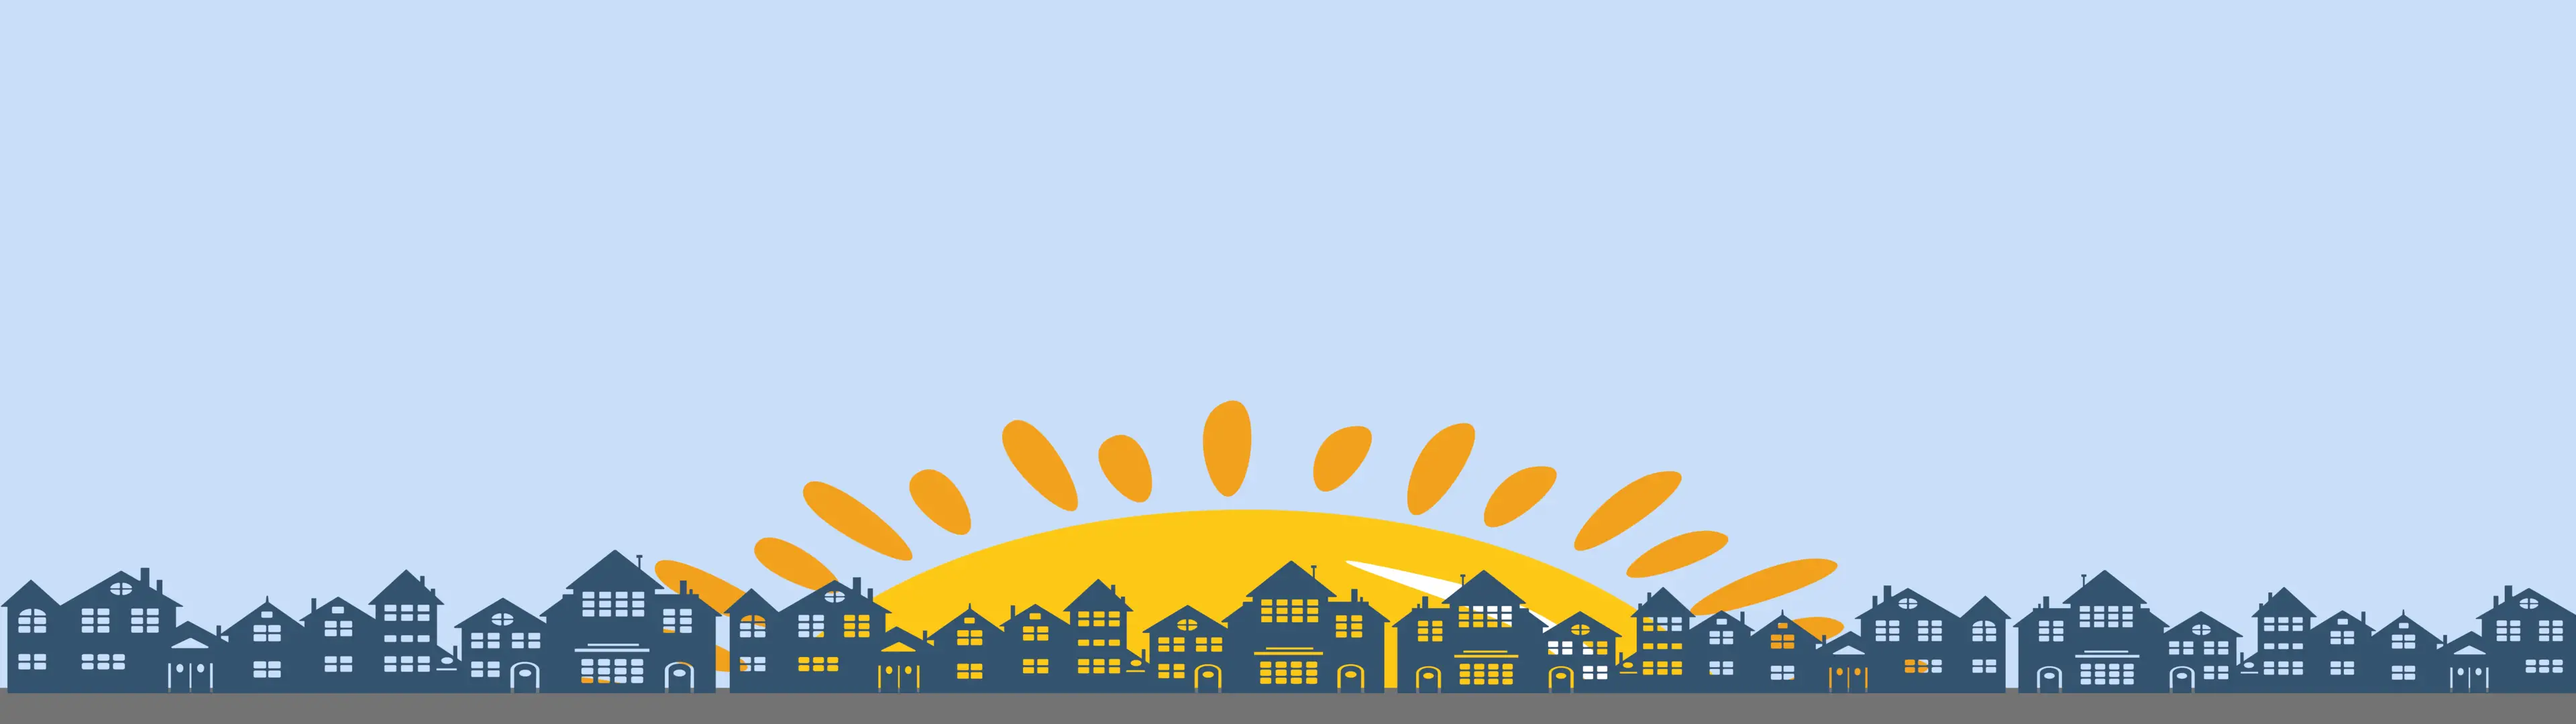
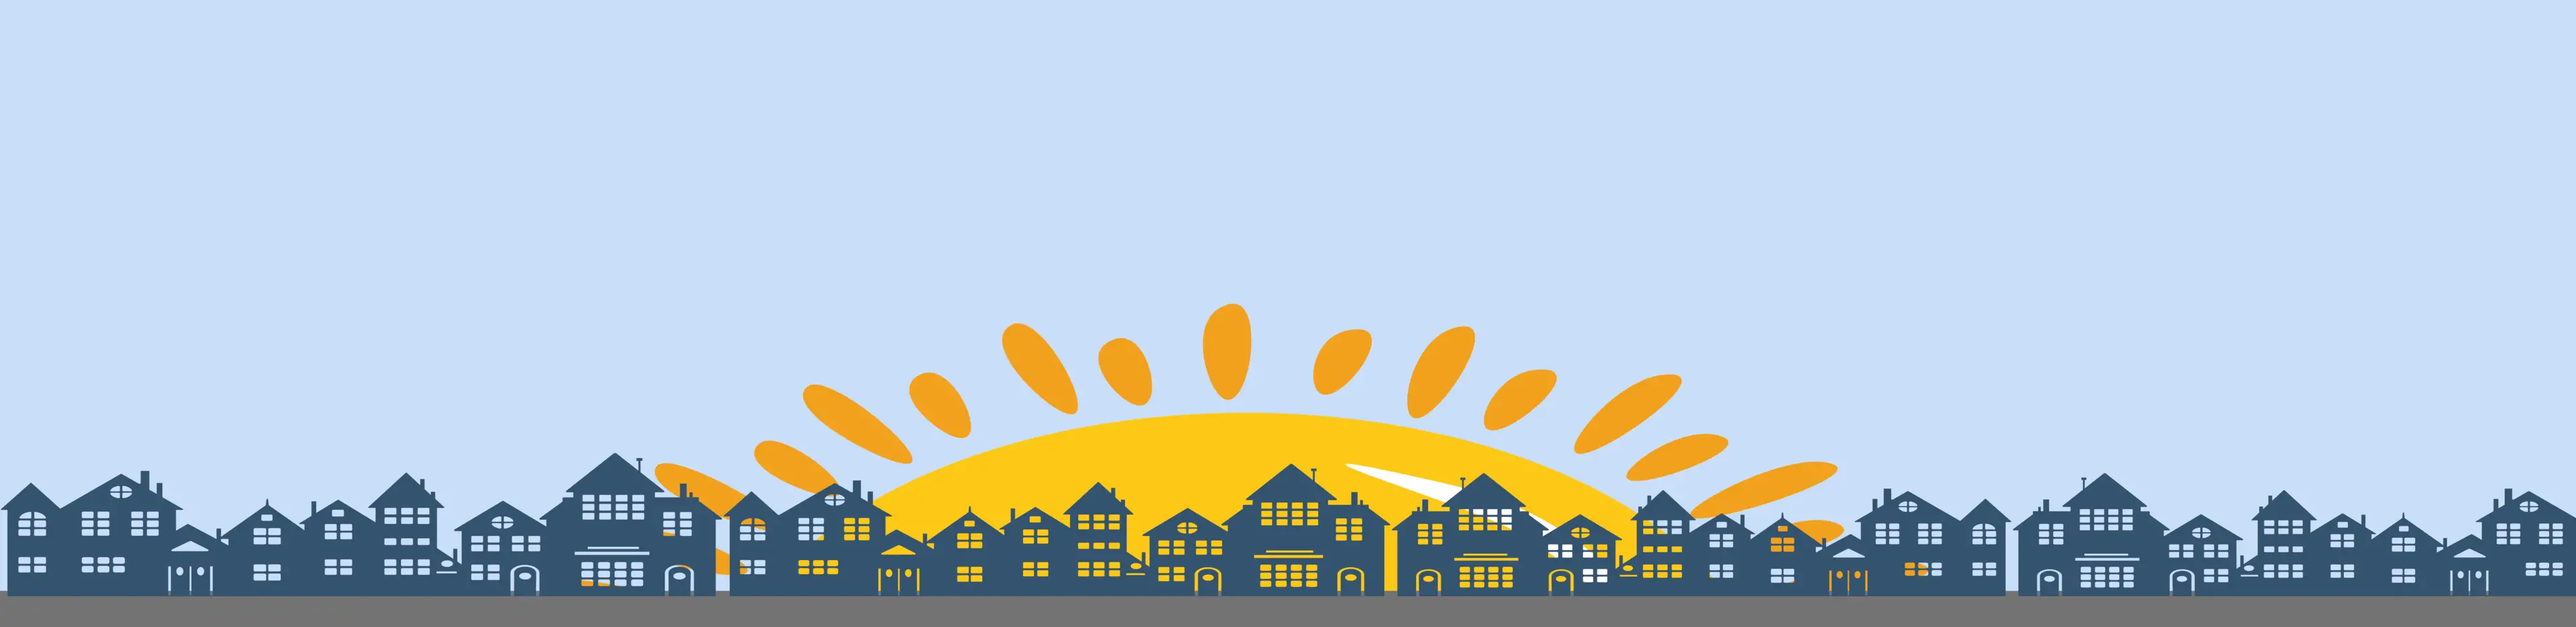
this is starting to look weirder than I thought it would

Changed region(s): [[0.0, 0.4647, 1.0, 0.9605]]

diff --git a/styles.css b/styles.css
@@ -1,14 +1,19 @@
 body, html {
     height: 100%;
     margin: 0;
+    overflow-y: hidden; /* Hide vertical scrollbar */
+    overflow-x: hidden; /* Hide horizontal scrollbar */
 }
 
 .scrolling-image {
+    position: absolute;
+    z-index: -1;
     background: url("./summer.png") repeat-x;
-    height: 750px;
+    height: 100%;
     width: 7680px;
-    animation: slide 3s linear infinite;
+    animation: slide 20s linear infinite;
   }
+
 @keyframes slide {
     0% {
         transform: translateX(0);
@@ -16,4 +21,14 @@ body, html {
     100% {
         transform: translateX(-3840px); /* Adjusted to match the container width */
     }
+}
+
+
+.absolute {
+    position: absolute;
+}
+
+.flex {
+    display: flex;
+    justify-content: center;
 }

diff --git a/index.html b/index.html
@@ -10,6 +10,12 @@
 
 <body>
     <div class="scrolling-image"></div>
+
+    <div class="absolute">
+        <div class="flex">
+            <p>Welcome To Data-Mail Inc.</p>
+        </div>
+    </div>
 </body>
 
 </html>
